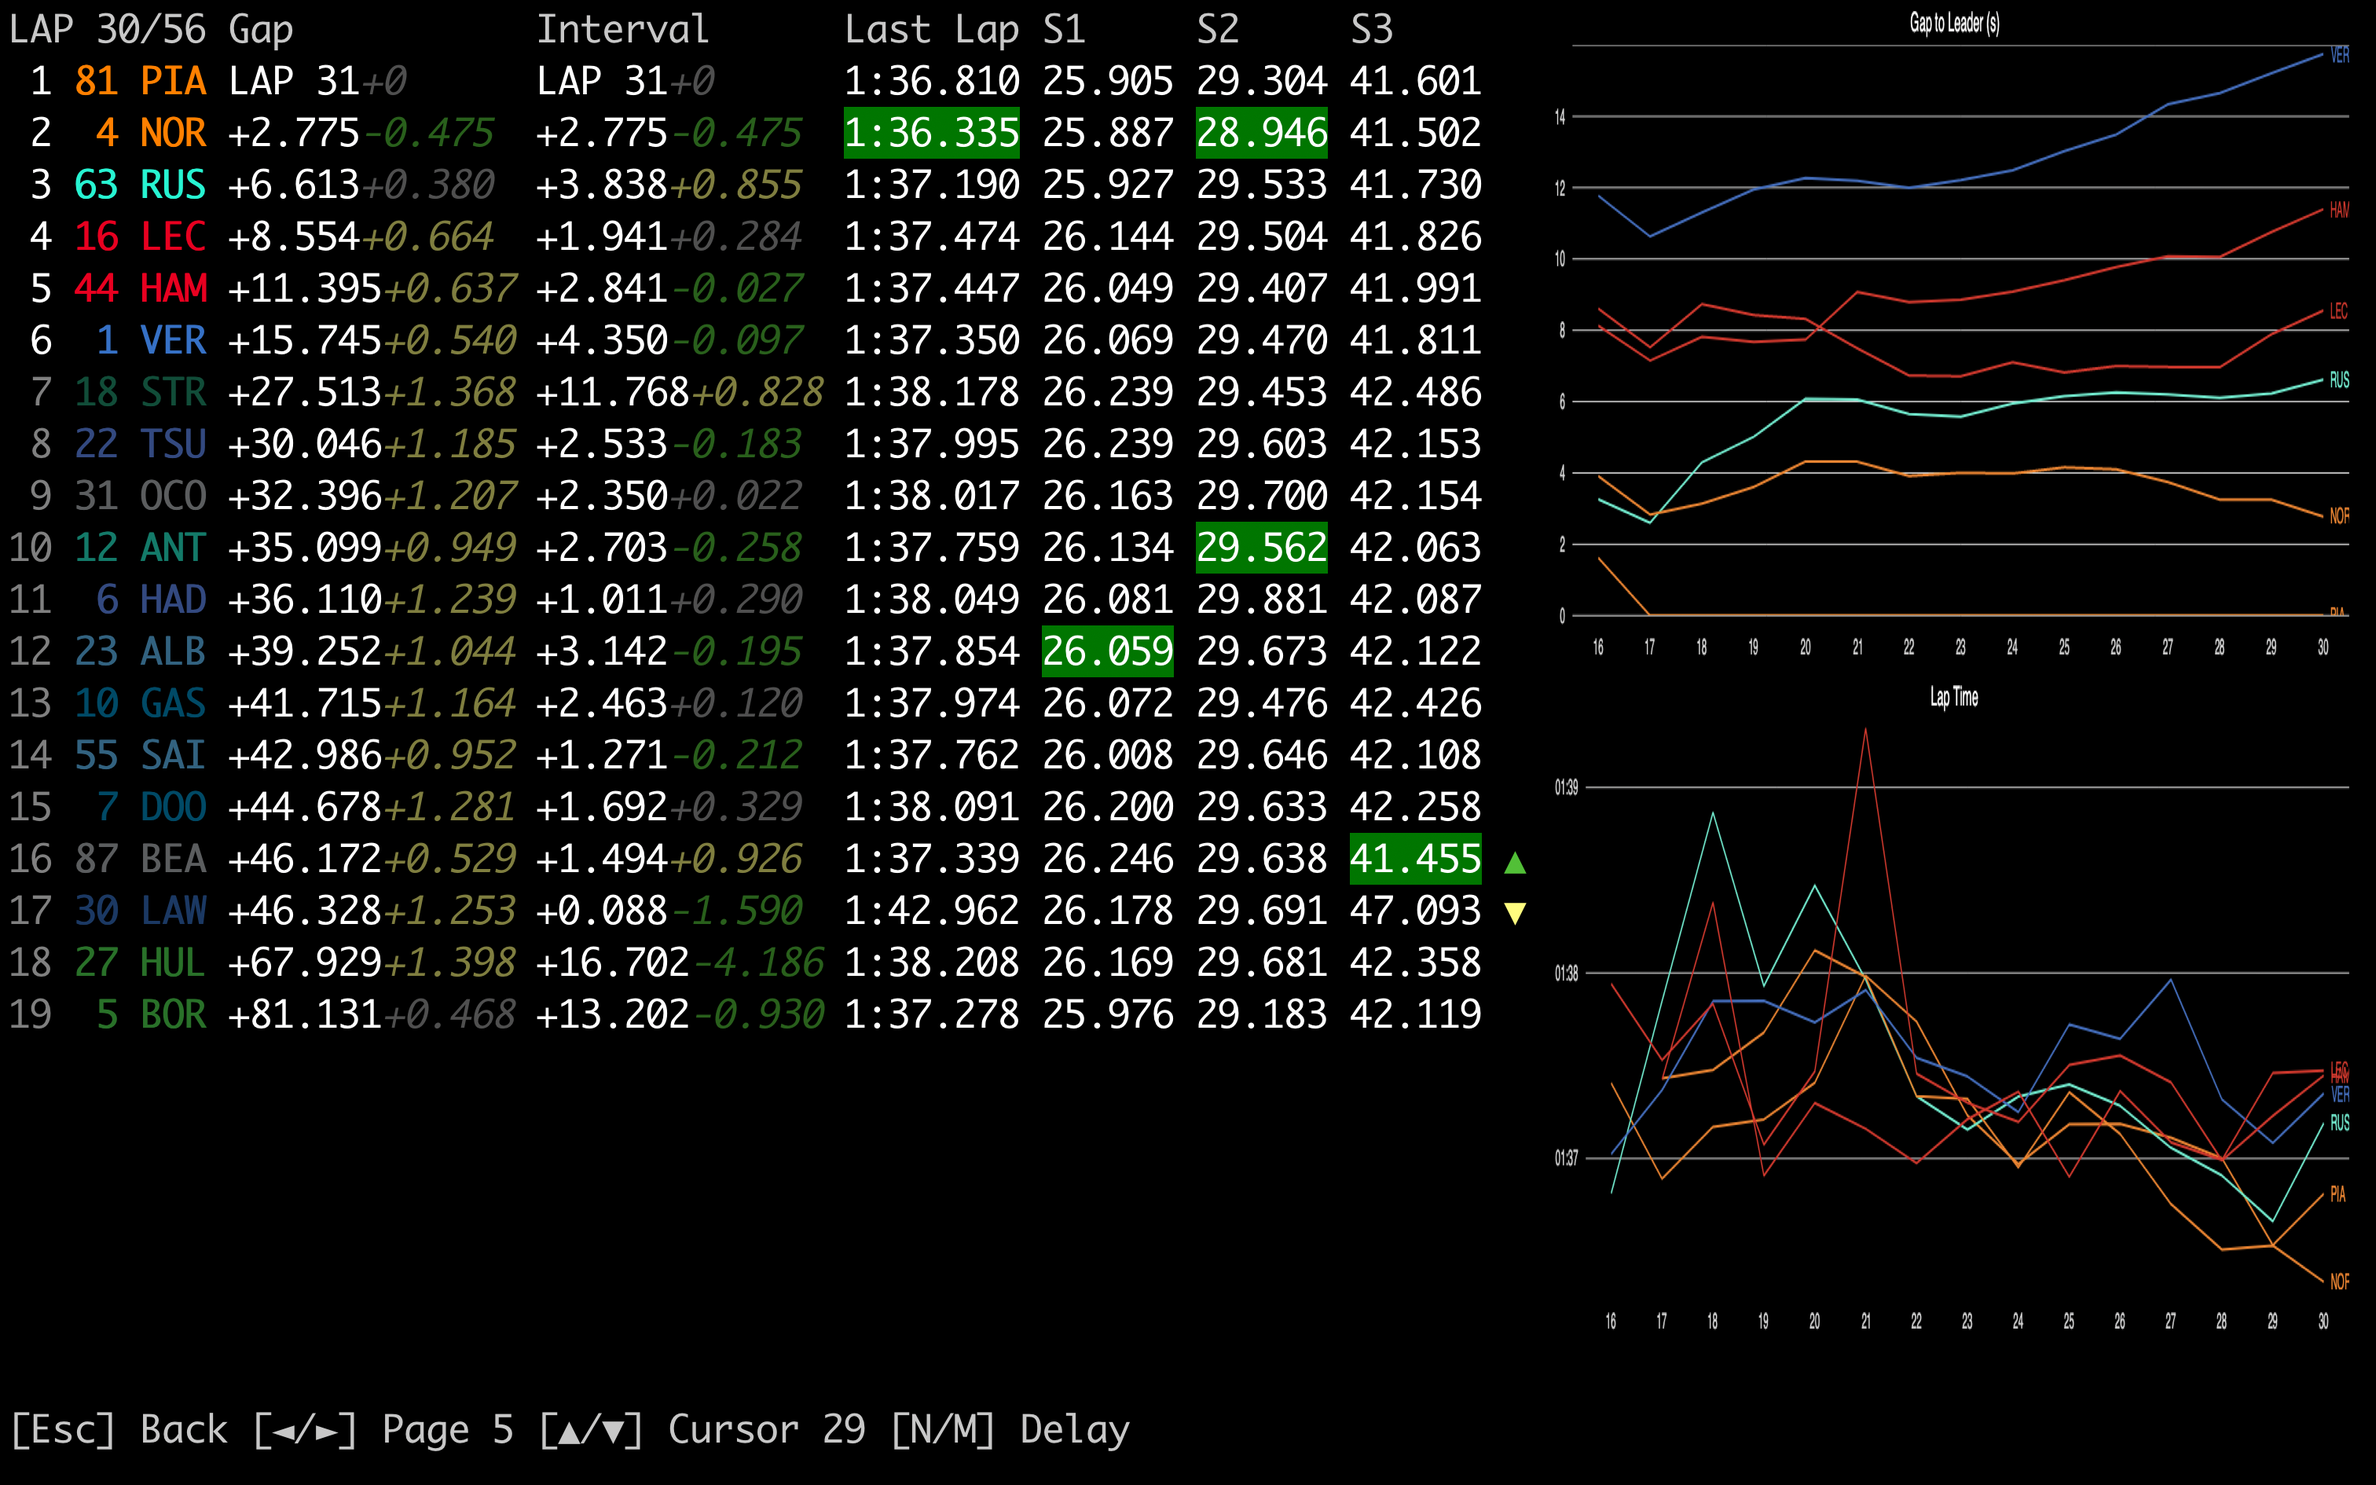
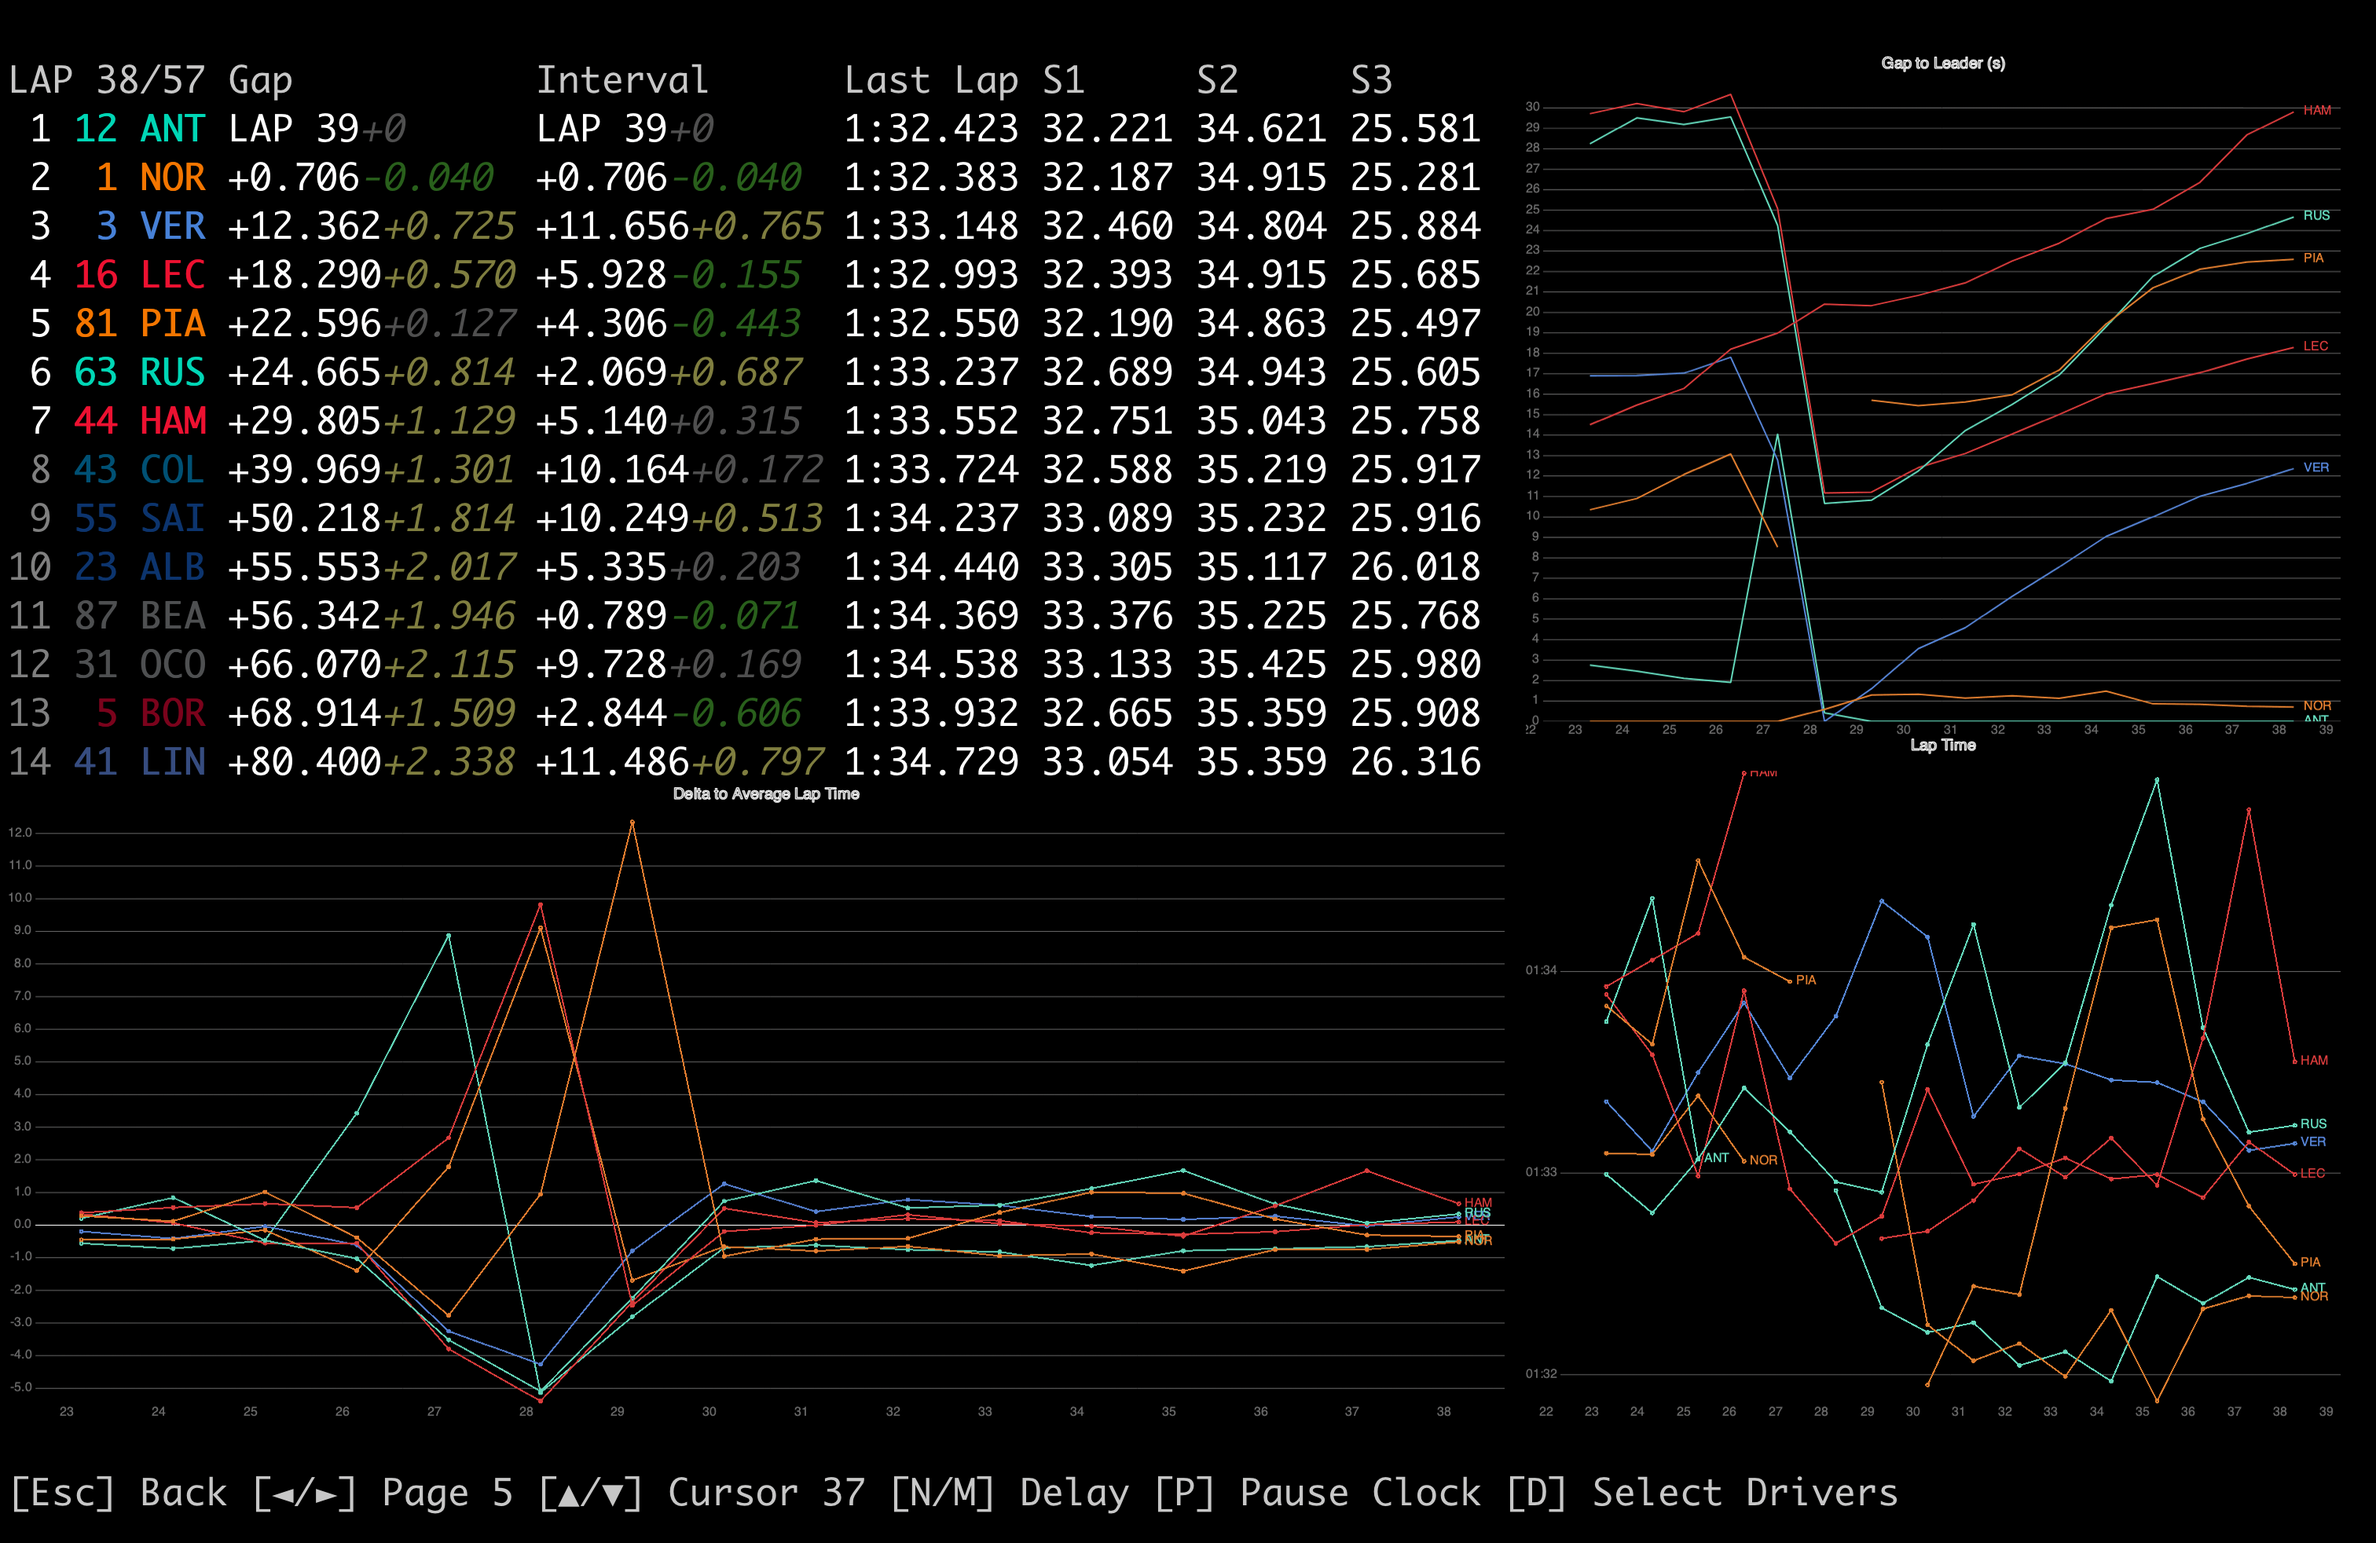
Add a Average Lap Time chart to the Timing History screen

diff --git a/UndercutF1.Console/Display/TimingHistoryDisplay.cs b/UndercutF1.Console/Display/TimingHistoryDisplay.cs
@@ -63,13 +63,16 @@ public class TimingHistoryDisplay(
     };
 
     private string[] _chartPanelControlSequence = [];
-    private string[] _previousSequence = [];
+    private string[] _previousChartPanelControlSequence = [];
+    private string[] _bottomChartPanelControlSequence = [];
+    private string[] _previousBottomChartPanelControlSequence = [];
 
     public Task<IRenderable> GetContentAsync()
     {
         var timingTower = GetTimingTower();
 
         _chartPanelControlSequence = GetChartPanel();
+        _bottomChartPanelControlSequence = GetBottomChartPanel();
 
         var layout = new Layout("Root").SplitRows(new Layout("Timing Tower", timingTower));
 
@@ -79,18 +82,38 @@ public class TimingHistoryDisplay(
     /// <inheritdoc />
     public async Task PostContentDrawAsync(bool shouldDraw)
     {
-        await Terminal.OutAsync(ControlSequences.MoveCursorTo(0, LEFT_OFFSET));
-
         // Only draw if we need to, or if the drawing has changed
-        var hasChanged = !_previousSequence.SequenceEqual(_chartPanelControlSequence);
-        if (shouldDraw || hasChanged)
+        var chartPanelChanged = !_previousChartPanelControlSequence.SequenceEqual(
+            _chartPanelControlSequence
+        );
+
+        if (shouldDraw || chartPanelChanged)
         {
+            await Terminal.OutAsync(ControlSequences.MoveCursorTo(0, LEFT_OFFSET));
             foreach (var sequence in _chartPanelControlSequence)
             {
                 await Terminal.OutAsync(sequence);
-                _previousSequence = _chartPanelControlSequence;
+                _previousChartPanelControlSequence = _chartPanelControlSequence;
             }
         }
+
+        var buttomPanelChanged = !_previousBottomChartPanelControlSequence.SequenceEqual(
+            _bottomChartPanelControlSequence
+        );
+        if (shouldDraw || buttomPanelChanged)
+        {
+            // Draw the bottom chart panel below the timing history tower
+            var numberDriverOnCurrentLap =
+                timingData.DriversByLap.GetValueOrDefault(state.CursorOffset + 1)?.Count ?? 0;
+            var topOffset = numberDriverOnCurrentLap + 1;
+            await Terminal.OutAsync(ControlSequences.MoveCursorTo(topOffset, 0));
+            foreach (var sequence in _bottomChartPanelControlSequence)
+            {
+                await Terminal.OutAsync(sequence);
+                _previousBottomChartPanelControlSequence = _bottomChartPanelControlSequence;
+            }
+        }
+        _previousBottomChartPanelControlSequence = _bottomChartPanelControlSequence;
     }
 
     private IRenderable GetTimingTower()
@@ -381,6 +404,113 @@ public class TimingHistoryDisplay(
         return surface.Snapshot().ToGraphicsSequence(terminalInfo, heightCells, widthCells);
     }
 
+    private string[] GetBottomChartPanel()
+    {
+        // Only use data from the last LAPS_IN_CHART laps
+        // Lap numbers are 1-indexed, cursor is 0-indexed, so offset by 1
+        var minLap = state.CursorOffset - LAPS_IN_CHART + 1;
+        var maxLap = state.CursorOffset + 1;
+
+        var averageLapSeriesData = driverList
+            .Latest.Where(x => x.Key != "_kf") // Data quirk, dictionaries include _kf which obviously isn't a driver
+            .ToDictionary(x => x.Key, _ => new List<ObservablePoint>());
+
+        foreach (
+            var (lap, lines) in timingData
+                .DriversByLap.OrderBy(x => x.Key)
+                .Where(x => x.Key >= minLap && x.Key <= maxLap)
+        )
+        {
+            // Only include selected drivers when coming up with the average lap time
+            var averageLapTime = lines
+                .Where(x => driverList.IsSelected(x.Key))
+                .Select(x => x.Value.LastLapTime.ToTimeSpan())
+                .Where(x => x.HasValue)
+                .DefaultIfEmpty(TimeSpan.Zero)
+                .Average(x => x!.Value.TotalMilliseconds);
+
+            foreach (var (driver, timingData) in lines)
+            {
+                var lapTime = timingData.LastLapTime.ToTimeSpan()?.TotalMilliseconds;
+                if (lapTime.HasValue)
+                {
+                    averageLapSeriesData[driver].Add(new(lap, lapTime.Value - averageLapTime));
+                }
+                else
+                {
+                    averageLapSeriesData[driver].Add(new(lap, null));
+                }
+            }
+        }
+
+        var averageLapSeries = averageLapSeriesData
+            .Select(x =>
+            {
+                var driver = driverList.Latest.GetValueOrDefault(x.Key) ?? new();
+                var colour = driver.TeamColour ?? "FFFFFF";
+                return new LineSeries<ObservablePoint?>(x.Value)
+                {
+                    Name = x.Key,
+                    Fill = new SolidColorPaint(SKColors.Transparent) { IsAntialias = false },
+                    GeometrySize = 4,
+                    GeometryStroke = new SolidColorPaint(SKColor.Parse(driver.TeamColour))
+                    {
+                        IsAntialias = false,
+                        StrokeThickness = 2,
+                    },
+                    GeometryFill = null,
+                    Stroke = new SolidColorPaint(SKColor.Parse(driver.TeamColour))
+                    {
+                        IsAntialias = false,
+                        StrokeThickness = 2,
+                    },
+                    IsVisible = driverList.IsSelected(x.Key),
+                    LineSmoothness = 0,
+                    // Add the drivers name next to the final data point, as a series label
+                    DataLabelsFormatter = p =>
+                        p.Index == x.Value.Count - 1 || x.Value[p.Index + 1].Y == null
+                            ? driver.Tla!
+                            : string.Empty,
+                    DataLabelsPosition = LiveChartsCore.Measure.DataLabelsPosition.Right,
+                    DataLabelsSize = 16,
+                    DataLabelsPaint = new SolidColorPaint(SKColor.Parse(driver.TeamColour))
+                    {
+                        IsAntialias = false,
+                    },
+                    DataPadding = new LvcPoint(1, 0),
+                };
+            })
+            .ToArray();
+
+        var widthCells = LEFT_OFFSET;
+        var numberDriverOnCurrentLap =
+            timingData.DriversByLap.GetValueOrDefault(maxLap)?.Count ?? 0;
+        var topOffset = numberDriverOnCurrentLap + 1;
+        var heightCells = Terminal.Size.Height - topOffset - BOTTOM_OFFSET;
+
+        var terminalHeightPixels = terminalInfo.TerminalSize.Value.Height;
+        var heightPerCell = terminalHeightPixels / Terminal.Size.Height;
+
+        var terminalWidthPixels = terminalInfo.TerminalSize.Value.Width;
+        var widthPerCell = terminalWidthPixels / Terminal.Size.Width;
+
+        var heightPixels = heightCells * heightPerCell;
+        var widthPixels = widthCells * widthPerCell;
+
+        var averageLapChart = CreateChart(
+            averageLapSeries,
+            "Delta to Average Lap Time",
+            heightPixels,
+            widthPixels,
+            labeler: v =>
+                v < 0
+                    ? TimeSpan.FromMilliseconds(v).ToString("\\-s\\.f")
+                    : TimeSpan.FromMilliseconds(v).ToString("s\\.f"),
+            yMinStep: 500
+        );
+        return averageLapChart.GetImage().ToGraphicsSequence(terminalInfo, heightCells, widthCells);
+    }
+
     private SKCartesianChart CreateChart(
         LineSeries<ObservablePoint?>[] series,
         string title,
@@ -422,6 +552,7 @@ public class TimingHistoryDisplay(
                 {
                     SeparatorsPaint = _lightGrayPaint,
                     LabelsPaint = _labelsPaint,
+                    ZeroPaint = _whitePaint,
                     MinLimit = axisMin,
                     MaxLimit = axisMax,
                     Labeler = labeler,

diff --git a/README.md b/README.md
@@ -158,7 +158,9 @@ In the `Timing by Lap` page, you can use the cursor controlled by the <kbd>▼</
 
 Charts on the right display how Gap to Leader and Lap Time for all selected drivers over the last 15 laps, letting you see trends and catch strategies unfolding.
 
-You can show/hide drivers here by using the <kbd>D</kbd> `Select Drivers` action and then hitting enter on the drivers you have to show/hide. The drivers hidden here will also be hidden on the Driver Tracker page.
+A Delta to Average Lap chart on the bottom shows each drivers relative gap to the average lap time on each lap. This gives a slightly cleaner understanding of the pace of each car on each lap, accounting for overall race pace changes where the entire field slows down for e.g. a safety car of changing conditions. Big spikes are usually pit laps which make it easy to see how a drivers strategy is playing out.
+
+You can show/hide drivers here by using the <kbd>D</kbd> `Select Drivers` action and then hitting enter on the drivers you have to show/hide. The drivers hidden here will also be hidden on the Driver Tracker page. 
 
 ![Using a Cursor to View Timing History by Lap](docs/screenshots/timing-history-screen.png)
 
